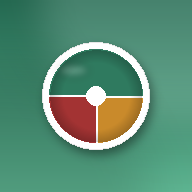
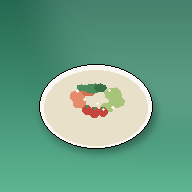
Nuevo icono con comida real (bowl de salmón, aguacate, tomate y verdura) en vez del icono abstracto

Changed region(s): [[0.1875, 0.2188, 0.8125, 0.875], [0.0, 0.9688, 0.5312, 1.0]]

diff --git a/service-worker.js b/service-worker.js
@@ -1,4 +1,4 @@
-const CACHE_VERSION = 'plan-alimentacion-v13';
+const CACHE_VERSION = 'plan-alimentacion-v14';
 const APP_SHELL = [
   './',
   './index.html',
